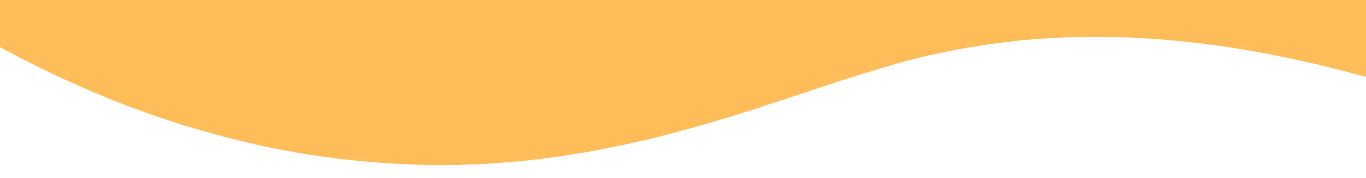
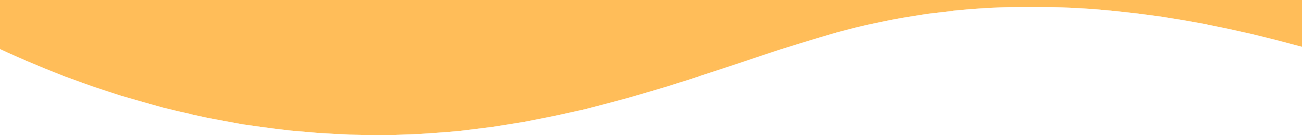
apps and countries sections

Changed region(s): [[0.3994, 0.0288, 1.0, 0.8921], [0.0, 0.259, 0.3994, 0.9784]]

diff --git a/index.html b/index.html
@@ -114,8 +114,142 @@
         </ul>
         <button class="green-link">Explore Stores around you</button>
       </section>
+      <div id="top-curve"></div>
+      <section class="countries">
+        <img src="./images/countries-opt.svg" alt="countrie illustration" />
+        <h2 class="section-title">Countries where we deliver</h2>
+        <ul class="countries-list">
+          <li>
+            <a href="#">Spain</a>
+          </li>
+          <li>
+            <a href="#">Ukraine</a>
+          </li>
+          <li>
+            <a href="#"> Kenya </a>
+          </li>
+          <li>
+            <a href="#">Spain</a>
+          </li>
+          <li>
+            <a href="#">Ukraine</a>
+          </li>
+          <li>
+            <a href="#"> Kenya </a>
+          </li>
+          <li>
+            <a href="#">Spain</a>
+          </li>
+          <li>
+            <a href="#">Ukraine</a>
+          </li>
+          <li>
+            <a href="#"> Kenya </a>
+          </li>
+          <li>
+            <a href="#">Spain</a>
+          </li>
+          <li>
+            <a href="#">Ukraine</a>
+          </li>
+          <li>
+            <a href="#"> Kenya </a>
+          </li>
+          <li>
+            <a href="#">Spain</a>
+          </li>
+          <li>
+            <a href="#">Ukraine</a>
+          </li>
+          <li>
+            <a href="#"> Kenya </a>
+          </li>
+          <li>
+            <a href="#">Spain</a>
+          </li>
+          <li>
+            <a href="#">Ukraine</a>
+          </li>
+          <li>
+            <a href="#"> Kenya </a>
+          </li>
+          <li>
+            <a href="#">Spain</a>
+          </li>
+          <li>
+            <a href="#">Ukraine</a>
+          </li>
+          <li>
+            <a href="#"> Kenya </a>
+          </li>
+          <li>
+            <a href="#">Spain</a>
+          </li>
+          <li>
+            <a href="#">Ukraine</a>
+          </li>
+          <li>
+            <a href="#"> Kenya </a>
+          </li>
+          <li>
+            <a href="#">Spain</a>
+          </li>
+          <li>
+            <a href="#">Ukraine</a>
+          </li>
+          <li>
+            <a href="#"> Kenya </a>
+          </li>
+          <li>
+            <a href="#">Spain</a>
+          </li>
+          <li>
+            <a href="#">Ukraine</a>
+          </li>
+          <li>
+            <a href="#"> Kenya </a>
+          </li>
+        </ul>
+      </section>
 
-      <section class="countries"></section>
+      <section class="apps">
+        <div id="bottom-curve"></div>
+
+        <div class="apps-container">
+          <div class="apps-text">
+            <img
+              src="./images/download-app-logo-opt.svg"
+              alt="phone app illustration"
+            />
+            <h2 class="section-title">Download the app</h2>
+            <p>Order anything and track it in real time with the Glovo app.</p>
+            <ul>
+              <li>
+                <a href="#">
+                  <img
+                    src="./images/app-store-button.svg"
+                    alt="app store link icon"
+                  />
+                </a>
+              </li>
+              <li>
+                <a href="#">
+                  <img
+                    src="./images/google-play-button.svg"
+                    alt="google playstore icon store"
+                  />
+                </a>
+              </li>
+            </ul>
+          </div>
+          <div class="apps-image">
+            <img
+              src="./images/download-app-desktop-opt.avif"
+              alt="download our apps illustration"
+            />
+          </div>
+        </div>
+      </section>
     </main>
 
     <script

diff --git a/index.css b/index.css
@@ -6,6 +6,13 @@
 body {
   font-family: sans-serif;
 }
+header,
+main,
+footer {
+  max-width: 1440px;
+  margin: 0px auto;
+  background-color: rgba(255, 193, 68, 0.1);
+}
 
 header {
   background-color: #ffc244ff;
@@ -140,16 +147,78 @@ header img {
 .why-glovo .green-link {
   border: none;
   margin: 40px auto;
-  display: inline-block;
   cursor: pointer;
 }
 
-/*  */
+/*  countries section*/
+#top-curve {
+  background-image: url("./images/countries-top.png");
+  background-repeat: no-repeat;
+  background-position: top center;
+  background-size: cover;
+  height: 150px;
+}
 
 .countries {
-  height: 600px;
-  background-image: url("./images/2.svg");
+  background-color: #ffc244ff;
+  text-align: center;
+  padding: 20px 35px;
+}
+
+.countries-list {
+  list-style-type: none;
+  display: flex;
+  flex-wrap: wrap;
+  justify-content: center;
+  gap: 20px;
+  padding: 20px 30px;
+}
+.countries-list a {
+  background-color: white;
+  color: black;
+  padding: 10px 20px;
+  border-radius: 22px;
+  text-decoration: none;
+  font-size: 19px;
+  display: flex;
+  align-items: center;
+  gap: 8px;
+}
+/* Download apps section */
+.apps {
+  position: relative;
+}
+#bottom-curve {
+  height: 200px;
+  background-image: url(./images/countries-bottom.png);
   background-repeat: no-repeat;
   background-size: cover;
-  background-position: top left;
+  background-position: bottom;
+  position: absolute;
+  top: 0;
+  left: 0;
+  right: 0;
+}
+.apps-container {
+  display: flex;
+  align-items: center;
+}
+.apps-container > div {
+  flex: 1;
+}
+.apps-container .apps-text {
+  text-align: center;
+}
+.apps-container .apps-text ul {
+  list-style-type: none;
+  display: flex;
+  justify-content: center;
+  margin-top: 25px;
+  gap: 18px;
+}
+.apps-container .apps-text ul img {
+  max-height: 70px;
+}
+.apps-image img {
+  width: 100%;
 }
